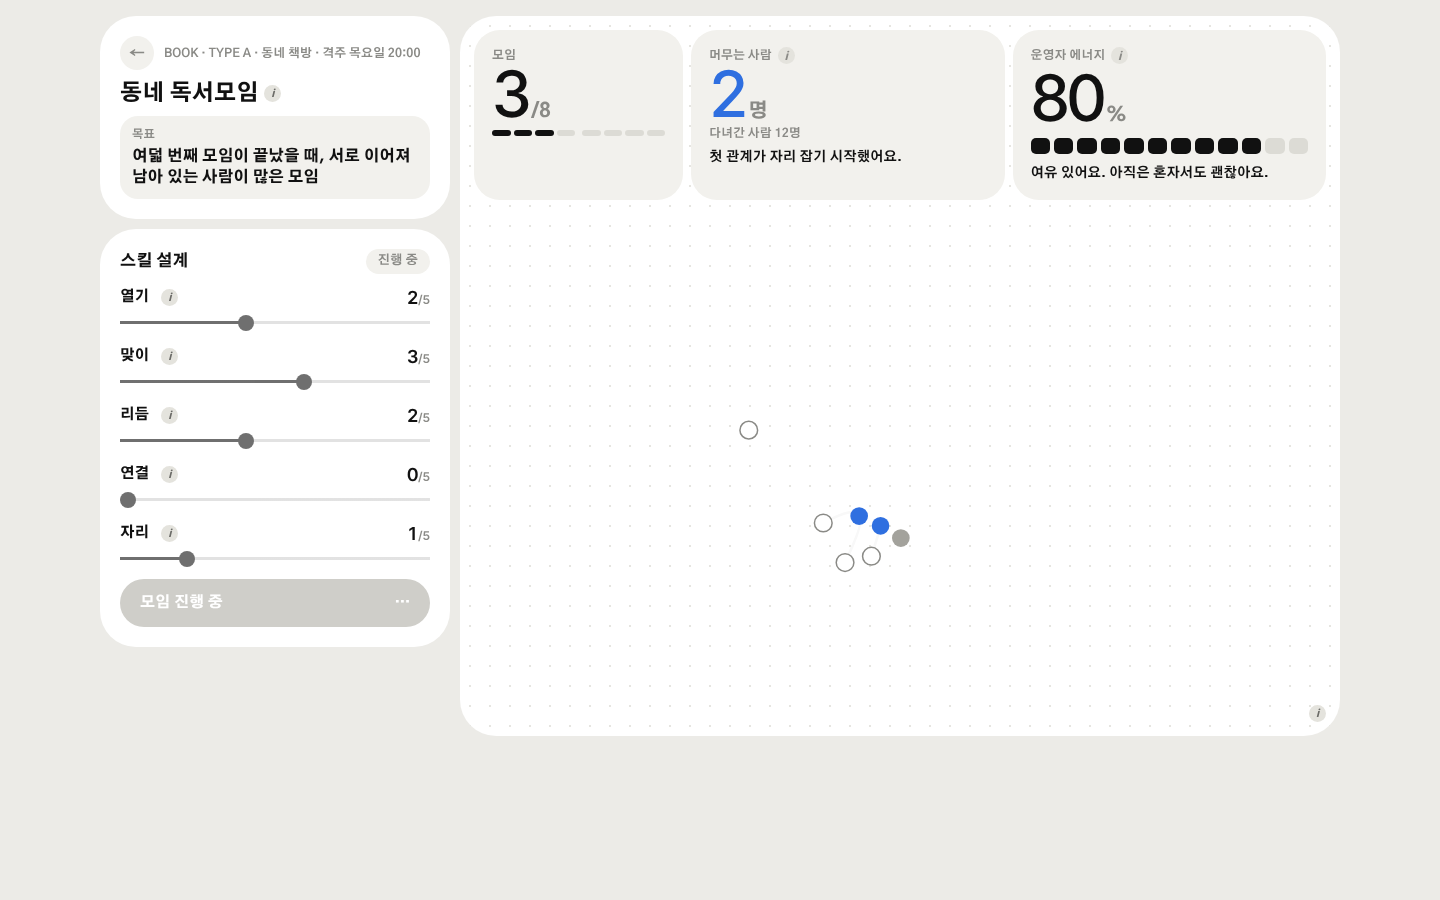
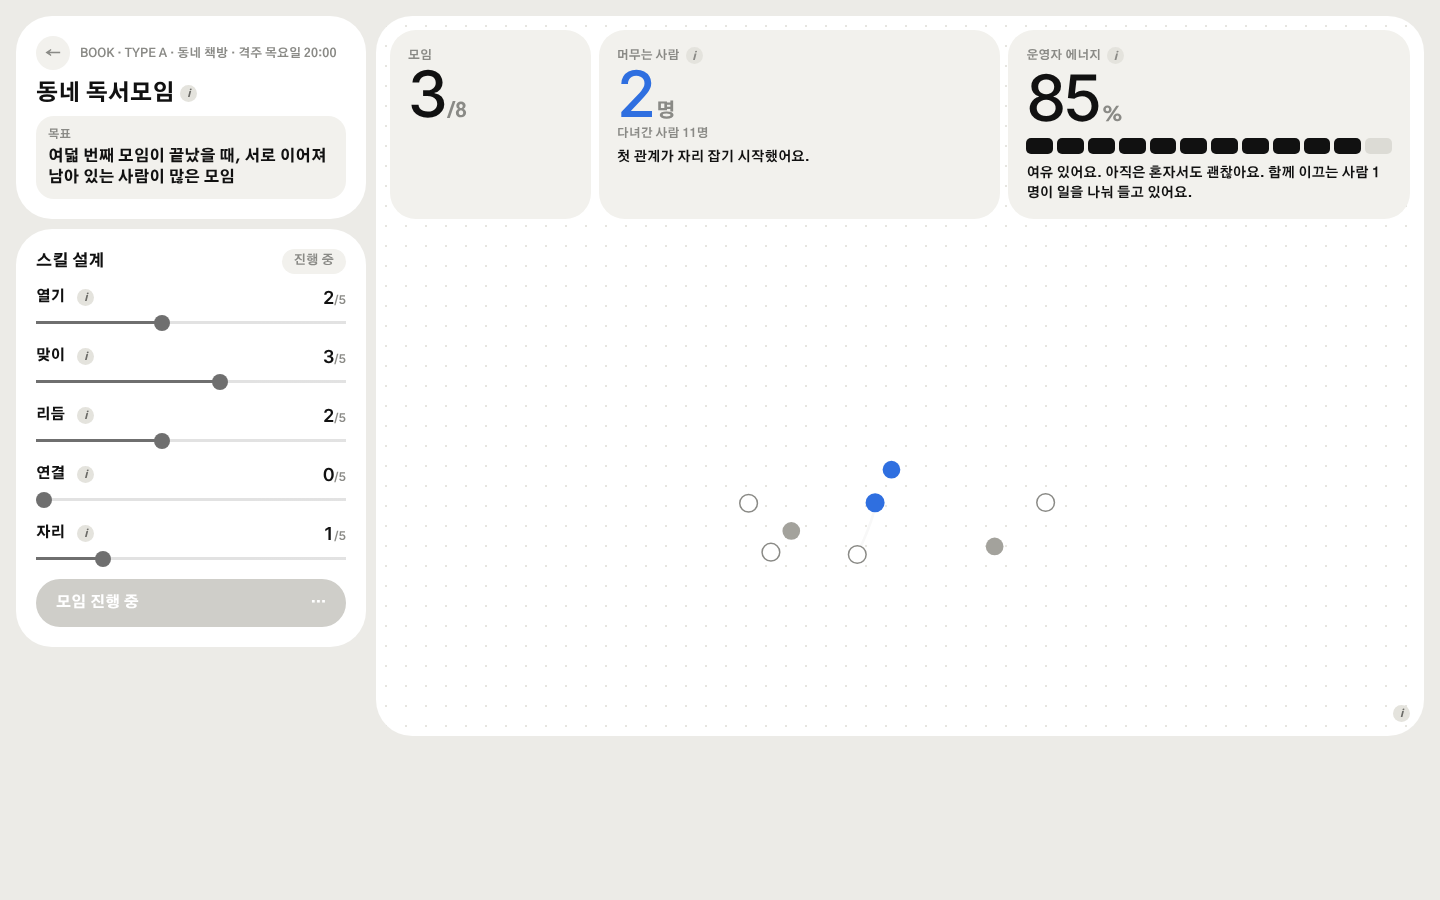
게임 v1.9 시안: 모임 게이지 삭제, 명도로 구분한 점, 화면 높이 채움, 전체 흐름 캡처
Claude-Session: https://claude.ai/code/session_01SaCvLutmawHZS3kxPWYxw7

diff --git a/thesis/game/moim.v07.src.html b/thesis/game/moim.v07.src.html
@@ -557,7 +557,7 @@ body{background:var(--page)}
 .info .tip,.htip{border-radius:var(--r-sm)}
 
 /* ───────── v1.7 모임 → 머무는 사람 → 운영자 에너지, 셋 다 큰 숫자 ───────── */
-.ovbar{grid-template-columns:minmax(0,.8fr) minmax(0,1.2fr) minmax(0,1.2fr)}
+.ovbar{grid-template-columns:minmax(0,.6fr) minmax(0,1.2fr) minmax(0,1.2fr)}
 .ovbar .ov-e .hero-n.low{color:var(--red)}
 .ovbar .ov-e .gauge{margin-top:6px}
 .ovbar .ov-e .info .tip{left:-8px;right:auto}
@@ -566,6 +566,9 @@ body{background:var(--page)}
 .wrap{max-width:min(1720px,100%)}
 @media (max-width:720px){.ovbar{grid-template-columns:minmax(0,1fr) minmax(0,1fr)}.ovbar .ov-e{grid-column:1/-1}}
 @media (min-width:1600px){.tool{grid-template-columns:400px minmax(0,1fr)}.canvas-wrap{min-height:min(82vh,900px)}}
+
+/* 화면 높이를 꽉 채움 (전시 모니터) */
+@media (min-width:900px){.intro{min-height:calc(100vh - 44px)}.canvas-wrap{min-height:calc(100vh - 44px)!important}}
 @media (prefers-reduced-motion:reduce){*{transition:none!important;animation:none!important}}
 </style>
 
@@ -606,7 +609,7 @@ const VERDICTS={
 const VORDER=['self','quiet','crowd','closed','burn','root'];
 const STAGE_NAMES=['처음 온 사람','다시 온 사람','자리 잡은 사람','함께 이끄는 사람'];
 const ACC='#2f6fe0';
-const STAGE_C=[COL.paper,'#a3a29c',ACC,ACC];
+const STAGE_C=['#d9d8d2','#9e9d97',ACC,'#173a86'];
 const RING=[.82,.5,.14,.04];
 const MAXLV=5, START_PTS=8, MEETINGS=8, HALF=4, TICK=1800;
 
@@ -962,7 +965,7 @@ function renderTool(){
     <div class="panel" id="panel"></div>
     <div class="canvas-wrap"><canvas id="cv" role="img" aria-label="모임 현장: 바깥에서 안쪽으로 처음 온 사람, 다시 온 사람, 자리 잡은 사람, 함께 이끄는 사람"></canvas>
       <div class="c-top"><span><span class="latin">${T.en}</span> · ${T.name} · <span id="mt"></span></span></div>
-      <div class="ovbar" id="ovbar"><div class="ov ov-r"><small>모임</small><b class="hero-n" id="ovM"></b><span class="steps" id="ovS"></span></div>
+      <div class="ovbar" id="ovbar"><div class="ov ov-r"><small>모임</small><b class="hero-n" id="ovM"></b></div>
       <div class="ov ov-l"><small>머무는 사람${info('파란 점: 자리를 잡았거나 함께 이끄는 사람이에요. 한 번 다녀간 사람과 달리 모임에 계속 머물러요.')}</small><b class="hero-n" id="ovN"></b><span id="ovT"></span><p class="msg" id="ovMsg"></p></div>
       <div class="ov ov-e" id="ovE"></div></div>
       <div class="c-cap"><span id="cap"></span><span class="c-key2">${info(`바깥에서 안쪽으로 ${STAGE_NAMES.join(' → ')}. 선은 사람 사이의 관계예요. 가운데는 모임이 함께하는 활동이에요. 사람들은 운영자가 아니라 활동을 가운데 두고 모여요.`)}</span>
@@ -1012,7 +1015,6 @@ function renderPanel(){
   document.getElementById('ovT').textContent=`다녀간 사람 ${st.total+2}명`;
   document.getElementById('ovMsg').textContent=relMsg(rooted);
   document.getElementById('ovM').innerHTML=`${st.meeting}<em>/${MEETINGS}</em>`;
-  document.getElementById('ovS').innerHTML=Array.from({length:MEETINGS},(_,i)=>`<i class="${i<st.meeting?'on':''}${i===HALF-1?' half':''}"></i>`).join('');
   document.getElementById('ovE').innerHTML=`<small>운영자 에너지${info('스킬을 많이 쓸수록 운영자가 바빠지고, 함께 이끄는 사람이 생기면 덜 지쳐요.')}</small><b class="hero-n ${e<30?'low':''}">${e}<em>%</em></b>${gauge(e)}<p class="msg">${energyMsg(e,leaders)}</p>`;}
   document.getElementById('cap').innerHTML=st.phase==='alloc'?'왼쪽에서 스킬 포인트를 나누고 시작을 누르세요.':lv?'4번의 모임이 끝났어요. 포인트를 더 나눠 보세요.':(st.cap||(st.last?`새로 온 사람 <b>${st.last.n}</b> · 다시 온 사람 <b>${st.last.back}</b> · 자리 잡은 사람 <b>${st.last.settle}</b> · 떠난 사람 <b>${st.last.gone}</b>`:''));
   const e=Math.round(st.E);
@@ -1071,7 +1073,6 @@ function finish(){
 function figure(x,y,r,head,hollow,a){
   const d=window.devicePixelRatio||1;
   ctx.globalAlpha=a;ctx.beginPath();ctx.arc(x,y,r*.68,0,Math.PI*2);ctx.fillStyle=head;ctx.fill();
-  if(head==='#ffffff'||head===COL.paper){ctx.lineWidth=1.5*d;ctx.strokeStyle='#8a8a86';ctx.stroke();}
 }
 function loop(){
   if(!st||!canvas||!document.body.contains(canvas))return;
@@ -1095,7 +1096,7 @@ function loop(){
   const byId=new Map(st.people.map(p=>[p.id,p])), now=performance.now();
   // 끝난 뒤: 첫 화면과 같은 원 그림이 점들 뒤에서 자라나요
   if(st.glyph){const t=Math.min(1,(now-st.glyph.t0)/1400),e=1-Math.pow(1-t,3);
-    for(const c of glyphParts(st.glyph.r,S)){ctx.globalAlpha=c.a*e;ctx.beginPath();ctx.arc(cx,cy,c.r*(.55+.45*e),0,Math.PI*2);
+    for(const c of glyphParts(st.glyph.r,S)){ctx.globalAlpha=c.a*e*.5;ctx.beginPath();ctx.arc(cx,cy,c.r*(.55+.45*e),0,Math.PI*2);
       if(c.fill){ctx.fillStyle=c.fill;ctx.fill();}else{ctx.strokeStyle=c.stroke;ctx.lineWidth=c.w;ctx.setLineDash(c.dash);ctx.stroke();ctx.setLineDash([]);}}
     ctx.globalAlpha=1;}
   for(const l of st.links){const a=byId.get(l[0]),b=byId.get(l[1]);if(!a||!b)continue;
@@ -1106,7 +1107,7 @@ function loop(){
   ctx.globalAlpha=1;
   // 사람
   for(const p of st.people){const r=(p.stage===3?14:13)*d;
-    figure(cx+p.x*S,cy+p.y*S,r,p.leaving?'#ffffff':STAGE_C[p.stage],false,p.leaving?p.alpha*.5:p.alpha);}
+    figure(cx+p.x*S,cy+p.y*S,r,STAGE_C[p.stage],false,p.leaving?p.alpha*.6:p.alpha);}
   ctx.globalAlpha=1;
   // 사람마다 무슨 일이 있었는지
   ctx.font=`800 ${12*d}px Pretendard,sans-serif`;ctx.textAlign='center';

diff --git a/thesis/26-game-prototype.md b/thesis/26-game-prototype.md
@@ -151,3 +151,10 @@
 ## v1.8 시안 (2026-10-28)
 - 연구자: 전시 모니터가 아이맥(가로가 긴 화면)이라 결과 세 칸을 한 줄로
 - 결과 세 칸은 폭 720px 이상이면 항상 한 줄. 전체 폭 상한 1240→1720px, 1600px 이상 화면에서는 왼쪽 패널 400px·캔버스 높이 최대 900px
+
+## v1.9 시안 (2026-10-28)
+- 모임 칸의 진행 게이지 삭제(숫자만), 칸 폭 줄임
+- 사람 점: 테두리 없이 명도로 구분 = 처음 온 사람 아주 옅은 회색 → 다시 온 사람 중간 회색 → 자리 잡은 사람 파랑 → 함께 이끄는 사람 진한 파랑
+- 전시 모니터용: 첫 화면과 시뮬레이션 화면이 화면 높이를 꽉 채움
+- 끝 장면의 원 그림을 반투명(50%)으로 겹쳐 그 위의 점이 보이게
+- 전체 흐름 캡처(1920×1080): game/screens_flow/
